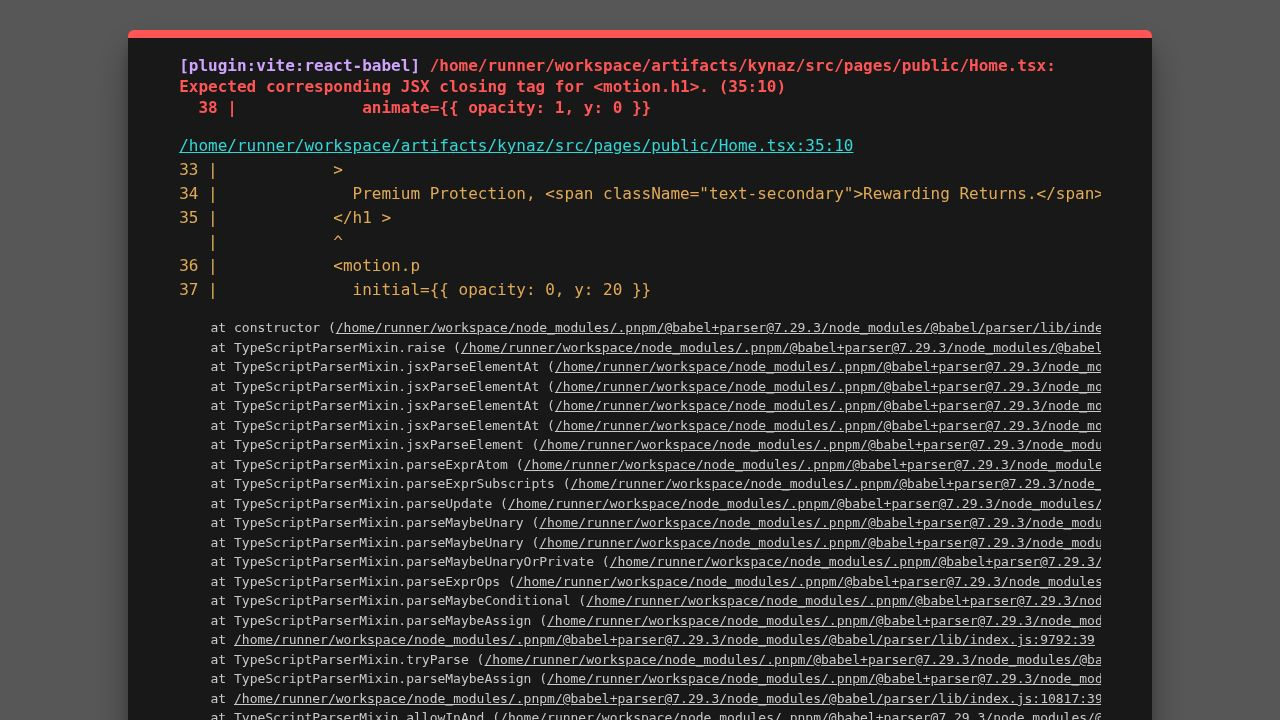
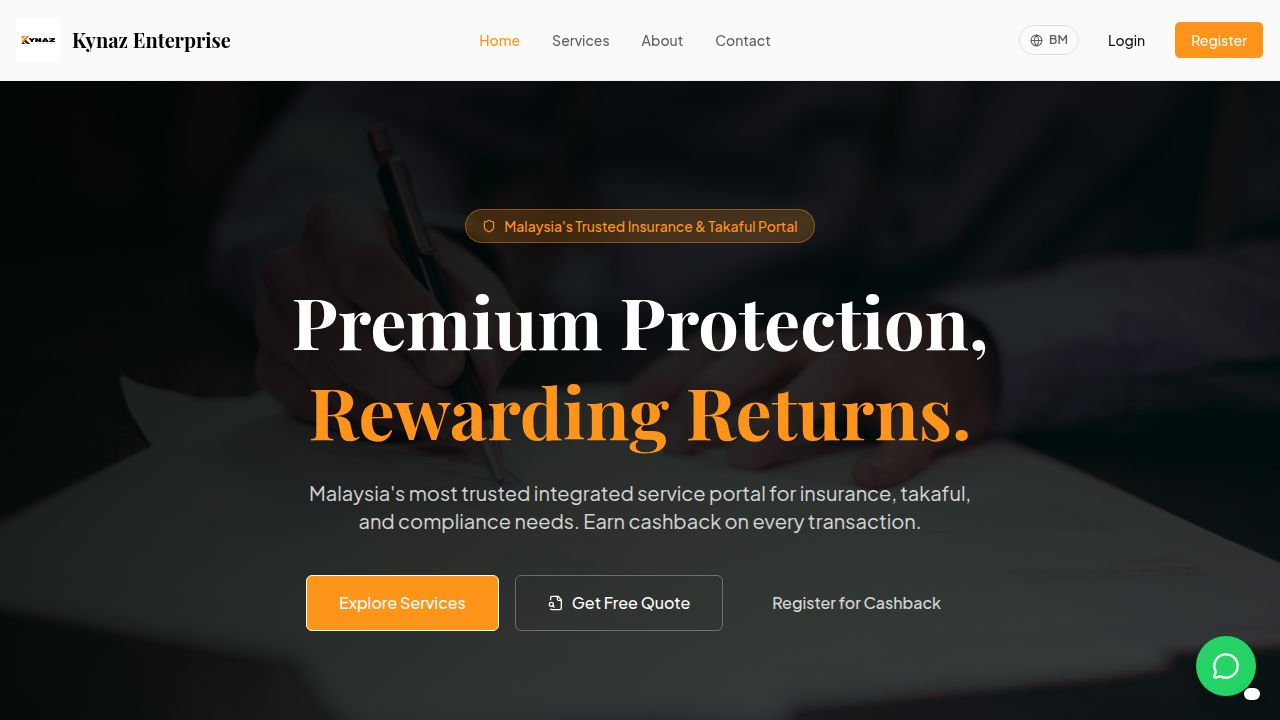
Enforce unique email and phone numbers and import initial data
Implement unique constraints for email and phone number in the users table, update registration and superadmin user creation endpoints to handle uniqueness checks, and add a script to import JSON data into the database.

Replit-Commit-Author: Agent
Replit-Commit-Session-Id: ae8ac8fe-e06b-4475-ad03-779a0bedd21b
Replit-Commit-Checkpoint-Type: full_checkpoint
Replit-Commit-Event-Id: c69b06d8-88b4-4710-bb69-40b54914ee2b
Replit-Commit-Screenshot-Url: https://storage.googleapis.com/screenshot-production-us-central1/76b30930-312d-4462-a200-2fb261c401f5/ae8ac8fe-e06b-4475-ad03-779a0bedd21b/HvxPIYU
Replit-Helium-Checkpoint-Created: true

diff --git a/scripts/src/seed.ts b/scripts/src/seed.ts
@@ -1,0 +1,244 @@
+/**
+ * Seed script — imports JSON export files into the database.
+ * Run: pnpm --filter @workspace/scripts run seed
+ *
+ * Safe to run multiple times: uses ON CONFLICT DO NOTHING on every table.
+ */
+
+import { readFileSync } from "fs";
+import { resolve, dirname } from "path";
+import { fileURLToPath } from "url";
+import pg from "pg";
+
+const __dirname = dirname(fileURLToPath(import.meta.url));
+const root = resolve(__dirname, "../../");
+
+const { Pool } = pg;
+
+if (!process.env.DATABASE_URL) throw new Error("DATABASE_URL is required");
+const pool = new Pool({ connectionString: process.env.DATABASE_URL });
+
+function load(filename: string): unknown[] {
+  const p = resolve(root, "attached_assets", filename);
+  const raw = readFileSync(p, "utf-8");
+  return JSON.parse(raw) as unknown[];
+}
+
+async function run(): Promise<void> {
+  const client = await pool.connect();
+  try {
+    await client.query("BEGIN");
+
+    // ── 1. Settings ──────────────────────────────────────────────────────────
+    const settings = load("settings_1779490965513.json") as Array<{
+      id: number; key: string; value: string; updated_at: string;
+    }>;
+    for (const s of settings) {
+      await client.query(
+        `INSERT INTO settings (id, key, value, updated_at)
+         VALUES ($1,$2,$3,$4)
+         ON CONFLICT (id) DO UPDATE SET value=EXCLUDED.value, updated_at=EXCLUDED.updated_at`,
+        [s.id, s.key, s.value, s.updated_at],
+      );
+    }
+    console.log(`✓ settings: ${settings.length}`);
+
+    // ── 2. Testimonials ───────────────────────────────────────────────────────
+    const testimonials = load("testimonials_1779490965513.json") as Array<{
+      id: number; customer_name: string; role: string; content: string;
+      rating: number; is_active: boolean; created_at: string;
+    }>;
+    for (const t of testimonials) {
+      await client.query(
+        `INSERT INTO testimonials (id, customer_name, role, content, rating, is_active, created_at)
+         VALUES ($1,$2,$3,$4,$5,$6,$7)
+         ON CONFLICT (id) DO NOTHING`,
+        [t.id, t.customer_name, t.role, t.content, t.rating, t.is_active, t.created_at],
+      );
+    }
+    console.log(`✓ testimonials: ${testimonials.length}`);
+
+    // ── 3. Services ───────────────────────────────────────────────────────────
+    const services = load("services_1779490965514.json") as Array<{
+      id: number; name: string; slug: string; category: string;
+      description: string; benefits: string[]; required_documents: string[];
+      icon: string; is_active: boolean; created_at: string;
+    }>;
+    for (const s of services) {
+      await client.query(
+        `INSERT INTO services (id, name, slug, category, description, benefits, required_documents, icon, is_active, created_at)
+         VALUES ($1,$2,$3,$4,$5,$6,$7,$8,$9,$10)
+         ON CONFLICT (id) DO UPDATE SET
+           name=EXCLUDED.name, slug=EXCLUDED.slug, category=EXCLUDED.category,
+           description=EXCLUDED.description, benefits=EXCLUDED.benefits,
+           required_documents=EXCLUDED.required_documents, icon=EXCLUDED.icon,
+           is_active=EXCLUDED.is_active`,
+        [
+          s.id, s.name, s.slug, s.category, s.description,
+          JSON.stringify(s.benefits), JSON.stringify(s.required_documents),
+          s.icon, s.is_active, s.created_at,
+        ],
+      );
+    }
+    console.log(`✓ services: ${services.length}`);
+
+    // ── 4. Users ──────────────────────────────────────────────────────────────
+    const users = load("users_1779490965513.json") as Array<{
+      id: number; full_name: string; email: string; phone: string;
+      password_hash: string; role: string; referral_code: string;
+      referred_by_code: string | null; cashback_balance: string;
+      is_verified: boolean; is_suspended: boolean;
+      created_at: string; updated_at: string;
+    }>;
+    for (const u of users) {
+      await client.query(
+        `INSERT INTO users (id, full_name, email, phone, password_hash, role, referral_code,
+           referred_by_code, cashback_balance, is_verified, is_suspended, created_at, updated_at)
+         VALUES ($1,$2,$3,$4,$5,$6,$7,$8,$9,$10,$11,$12,$13)
+         ON CONFLICT (id) DO UPDATE SET
+           full_name=EXCLUDED.full_name, email=EXCLUDED.email, phone=EXCLUDED.phone,
+           password_hash=EXCLUDED.password_hash, role=EXCLUDED.role,
+           referral_code=EXCLUDED.referral_code, referred_by_code=EXCLUDED.referred_by_code,
+           cashback_balance=EXCLUDED.cashback_balance, is_verified=EXCLUDED.is_verified,
+           is_suspended=EXCLUDED.is_suspended, updated_at=EXCLUDED.updated_at`,
+        [
+          u.id, u.full_name, u.email, u.phone, u.password_hash, u.role,
+          u.referral_code, u.referred_by_code, u.cashback_balance,
+          u.is_verified, u.is_suspended, u.created_at, u.updated_at,
+        ],
+      );
+    }
+    console.log(`✓ users: ${users.length}`);
+
+    // ── 5. Quotations ─────────────────────────────────────────────────────────
+    const quotations = load("quotations_1779490965514.json") as Array<{
+      id: number; user_id: number | null; service_id: number; status: string;
+      form_data: Record<string, unknown>; remarks: string | null;
+      document_url: string | null; quotation_ref: string | null;
+      price: string | null; tax_amount: string | null;
+      payment_proof_url: string | null; is_guest: boolean;
+      expires_at: string | null; created_at: string; updated_at: string;
+    }>;
+    for (const q of quotations) {
+      await client.query(
+        `INSERT INTO quotations (id, user_id, service_id, status, form_data, remarks,
+           document_url, quotation_ref, price, tax_amount, payment_proof_url,
+           is_guest, expires_at, created_at, updated_at)
+         VALUES ($1,$2,$3,$4,$5,$6,$7,$8,$9,$10,$11,$12,$13,$14,$15)
+         ON CONFLICT (id) DO UPDATE SET
+           status=EXCLUDED.status, form_data=EXCLUDED.form_data,
+           remarks=EXCLUDED.remarks, document_url=EXCLUDED.document_url,
+           quotation_ref=EXCLUDED.quotation_ref, price=EXCLUDED.price,
+           tax_amount=EXCLUDED.tax_amount, payment_proof_url=EXCLUDED.payment_proof_url,
+           updated_at=EXCLUDED.updated_at`,
+        [
+          q.id, q.user_id, q.service_id, q.status,
+          JSON.stringify(q.form_data), q.remarks, q.document_url,
+          q.quotation_ref, q.price, q.tax_amount, q.payment_proof_url,
+          q.is_guest, q.expires_at, q.created_at, q.updated_at,
+        ],
+      );
+    }
+    console.log(`✓ quotations: ${quotations.length}`);
+
+    // ── 6. Notifications ──────────────────────────────────────────────────────
+    const notifications = load("notifications_1779490965514.json") as Array<{
+      id: number; user_id: number; title: string; message: string;
+      type: string; is_read: boolean; created_at: string;
+    }>;
+    for (const n of notifications) {
+      await client.query(
+        `INSERT INTO notifications (id, user_id, title, message, type, is_read, created_at)
+         VALUES ($1,$2,$3,$4,$5,$6,$7)
+         ON CONFLICT (id) DO NOTHING`,
+        [n.id, n.user_id, n.title, n.message, n.type, n.is_read, n.created_at],
+      );
+    }
+    console.log(`✓ notifications: ${notifications.length}`);
+
+    // ── 7. Cashback transactions ───────────────────────────────────────────────
+    const cashback = load("cashback_transactions_1779490965515.json") as Array<{
+      id: number; user_id: number; type: string; amount: string;
+      description: string; reference_id: number | null; created_at: string;
+    }>;
+    for (const c of cashback) {
+      await client.query(
+        `INSERT INTO cashback_transactions (id, user_id, type, amount, description, reference_id, created_at)
+         VALUES ($1,$2,$3,$4,$5,$6,$7)
+         ON CONFLICT (id) DO NOTHING`,
+        [c.id, c.user_id, c.type, c.amount, c.description, c.reference_id, c.created_at],
+      );
+    }
+    console.log(`✓ cashback_transactions: ${cashback.length}`);
+
+    // ── 8. Referrals ──────────────────────────────────────────────────────────
+    const referrals = load("referrals_1779490965514.json") as Array<{
+      id: number; referrer_id: number; referred_user_id: number;
+      cashback_earned: string; created_at: string;
+    }>;
+    for (const r of referrals) {
+      await client.query(
+        `INSERT INTO referrals (id, referrer_id, referred_user_id, cashback_earned, created_at)
+         VALUES ($1,$2,$3,$4,$5)
+         ON CONFLICT (id) DO NOTHING`,
+        [r.id, r.referrer_id, r.referred_user_id, r.cashback_earned, r.created_at],
+      );
+    }
+    console.log(`✓ referrals: ${referrals.length}`);
+
+    // ── 9. Agents ─────────────────────────────────────────────────────────────
+    const agents = load("agents_1779490965515.json") as Array<{
+      id: number; user_id: number; agent_id: string; status: string;
+      badge: string; total_sales: number; total_customers: number;
+      total_commission: string; commission_balance: string;
+      commission_rate: string; points: number; rank_position: number | null;
+      notes: string | null; created_at: string; updated_at: string;
+    }>;
+    for (const a of agents) {
+      await client.query(
+        `INSERT INTO agents (id, user_id, agent_id, status, badge, total_sales, total_customers,
+           total_commission, commission_balance, commission_rate, points, rank_position,
+           notes, created_at, updated_at)
+         VALUES ($1,$2,$3,$4,$5,$6,$7,$8,$9,$10,$11,$12,$13,$14,$15)
+         ON CONFLICT (id) DO UPDATE SET
+           status=EXCLUDED.status, badge=EXCLUDED.badge,
+           total_sales=EXCLUDED.total_sales, total_customers=EXCLUDED.total_customers,
+           total_commission=EXCLUDED.total_commission, commission_balance=EXCLUDED.commission_balance,
+           commission_rate=EXCLUDED.commission_rate, points=EXCLUDED.points,
+           rank_position=EXCLUDED.rank_position, notes=EXCLUDED.notes,
+           updated_at=EXCLUDED.updated_at`,
+        [
+          a.id, a.user_id, a.agent_id, a.status, a.badge,
+          a.total_sales, a.total_customers, a.total_commission,
+          a.commission_balance, a.commission_rate, a.points,
+          a.rank_position, a.notes, a.created_at, a.updated_at,
+        ],
+      );
+    }
+    console.log(`✓ agents: ${agents.length}`);
+
+    // ── 10. Reset sequences ───────────────────────────────────────────────────
+    const tables = [
+      "settings", "testimonials", "services", "users", "quotations",
+      "notifications", "cashback_transactions", "referrals", "agents",
+    ];
+    for (const t of tables) {
+      await client.query(
+        `SELECT setval(pg_get_serial_sequence('${t}', 'id'), COALESCE((SELECT MAX(id) FROM ${t}), 0) + 1, false)`,
+      );
+    }
+    console.log("✓ sequences reset");
+
+    await client.query("COMMIT");
+    console.log("\n✅ Seed complete!");
+  } catch (err) {
+    await client.query("ROLLBACK");
+    console.error("❌ Seed failed:", err);
+    process.exit(1);
+  } finally {
+    client.release();
+    await pool.end();
+  }
+}
+
+run();

diff --git a/artifacts/api-server/src/routes/auth.ts b/artifacts/api-server/src/routes/auth.ts
@@ -1,5 +1,5 @@
 import { Router, type IRouter } from "express";
-import { eq } from "drizzle-orm";
+import { eq, or } from "drizzle-orm";
 import { db, usersTable } from "@workspace/db";
 import {
   RegisterBody,
@@ -70,9 +70,22 @@ router.post("/auth/register", async (req, res): Promise<void> => {
 
     const { fullName, email, phone, password, referralCode } = parsed.data;
 
-    const existing = await db.select().from(usersTable).where(eq(usersTable.email, email));
+    // Check email AND phone uniqueness together in one query
+    const existing = await db
+      .select({ id: usersTable.id, email: usersTable.email, phone: usersTable.phone })
+      .from(usersTable)
+      .where(or(eq(usersTable.email, email), eq(usersTable.phone, phone)));
+
     if (existing.length > 0) {
-      res.status(400).json({ error: "Email already registered" });
+      const emailTaken = existing.some(u => u.email === email);
+      const phoneTaken = existing.some(u => u.phone === phone);
+      if (emailTaken && phoneTaken) {
+        res.status(400).json({ error: "Email and phone number are already registered" });
+      } else if (emailTaken) {
+        res.status(400).json({ error: "This email address is already registered" });
+      } else {
+        res.status(400).json({ error: "This phone number is already registered" });
+      }
       return;
     }
 
@@ -122,7 +135,6 @@ router.post("/auth/register", async (req, res): Promise<void> => {
       }),
     }).catch(() => {});
 
-    // Alert staff about the new registration
     sendEmail({
       to: STAFF_EMAIL,
       subject: `[New Registration] ${fullName} — ${email}`,
@@ -139,8 +151,13 @@ router.post("/auth/register", async (req, res): Promise<void> => {
   } catch (err) {
     const msg = err instanceof Error ? err.message : String(err);
     if (msg.includes("unique") || msg.includes("duplicate")) {
-      res.status(400).json({ error: "Email already registered" });
+      if (msg.toLowerCase().includes("phone")) {
+        res.status(400).json({ error: "This phone number is already registered" });
+      } else {
+        res.status(400).json({ error: "This email address is already registered" });
+      }
     } else {
+      req.log?.error({ err }, "Registration failed");
       res.status(500).json({ error: "Registration failed. Please try again." });
     }
   }
@@ -178,7 +195,6 @@ router.post("/auth/login", async (req, res): Promise<void> => {
       attempts: 0,
     });
 
-    // Send OTP via email
     sendEmail({
       to: user.email,
       subject: "Your Kynaz OTP Code",
@@ -195,13 +211,11 @@ router.post("/auth/login", async (req, res): Promise<void> => {
           <p style="color:#888;font-size:12px;margin-top:24px;">If you did not attempt to log in, please ignore this email.</p>
         </div>
       `,
-    }).catch((err) => {
-      console.error("OTP email failed:", err?.message);
-    });
+    }).catch(() => {});
 
     res.json({ requiresOtp: true, pendingToken });
   } catch (err) {
-    console.error("Login error:", err instanceof Error ? err.message : err);
+    req.log?.error({ err }, "Login error");
     res.status(500).json({ error: "Login failed. Please try again." });
   }
 });
@@ -253,7 +267,7 @@ router.post("/auth/verify-otp", async (req, res): Promise<void> => {
 
     res.json({ user: formatUser(user), token });
   } catch (err) {
-    console.error("OTP verify error:", err instanceof Error ? err.message : err);
+    req.log?.error({ err }, "OTP verify error");
     res.status(500).json({ error: "Verification failed. Please try again." });
   }
 });

diff --git a/artifacts/api-server/src/routes/superadmin.ts b/artifacts/api-server/src/routes/superadmin.ts
@@ -1,5 +1,5 @@
 import { Router, type IRouter } from "express";
-import { eq, desc } from "drizzle-orm";
+import { eq, desc, or } from "drizzle-orm";
 import { db, usersTable, agentsTable, quotationsTable, cashbackTransactionsTable } from "@workspace/db";
 import { createHash, randomBytes } from "crypto";
 import { requireSuperAdmin, type AuthenticatedRequest } from "../middlewares/auth";
@@ -95,9 +95,21 @@ router.post("/superadmin/users", requireSuperAdmin, async (req: AuthenticatedReq
       return;
     }
 
-    const existing = await db.select().from(usersTable).where(eq(usersTable.email, email));
+    const existing = await db
+      .select({ id: usersTable.id, email: usersTable.email, phone: usersTable.phone })
+      .from(usersTable)
+      .where(or(eq(usersTable.email, email), eq(usersTable.phone, phone)));
+
     if (existing.length > 0) {
-      res.status(400).json({ error: "Email already registered" });
+      const emailTaken = existing.some(u => u.email === email);
+      const phoneTaken = existing.some(u => u.phone === phone);
+      if (emailTaken && phoneTaken) {
+        res.status(400).json({ error: "Email and phone number are already registered" });
+      } else if (emailTaken) {
+        res.status(400).json({ error: "This email address is already registered" });
+      } else {
+        res.status(400).json({ error: "This phone number is already registered" });
+      }
       return;
     }
 

diff --git a/lib/db/src/schema/users.ts b/lib/db/src/schema/users.ts
@@ -8,7 +8,7 @@ export const usersTable = pgTable("users", {
   id: serial("id").primaryKey(),
   fullName: text("full_name").notNull(),
   email: text("email").notNull().unique(),
-  phone: text("phone").notNull(),
+  phone: text("phone").notNull().unique(),
   passwordHash: text("password_hash").notNull(),
   role: userRoleEnum("role").notNull().default("customer"),
   referralCode: text("referral_code").notNull().unique(),